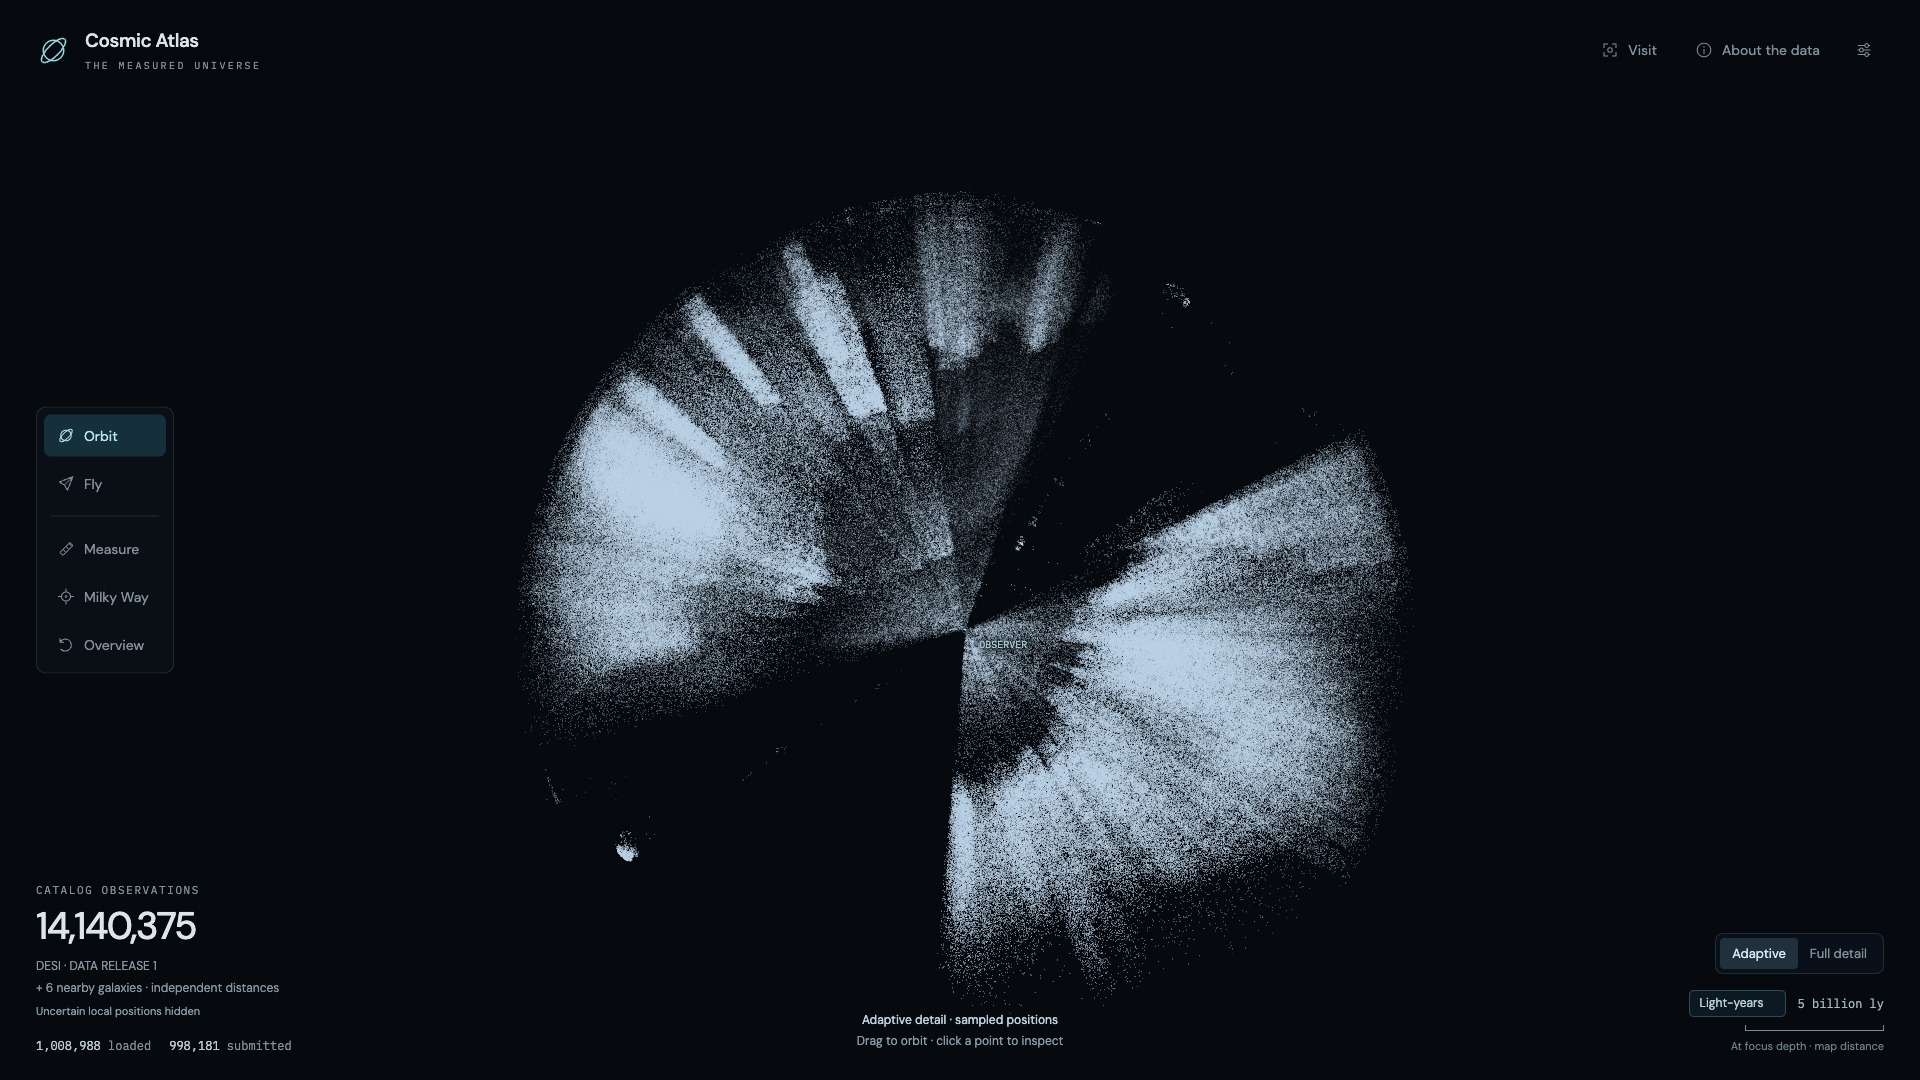
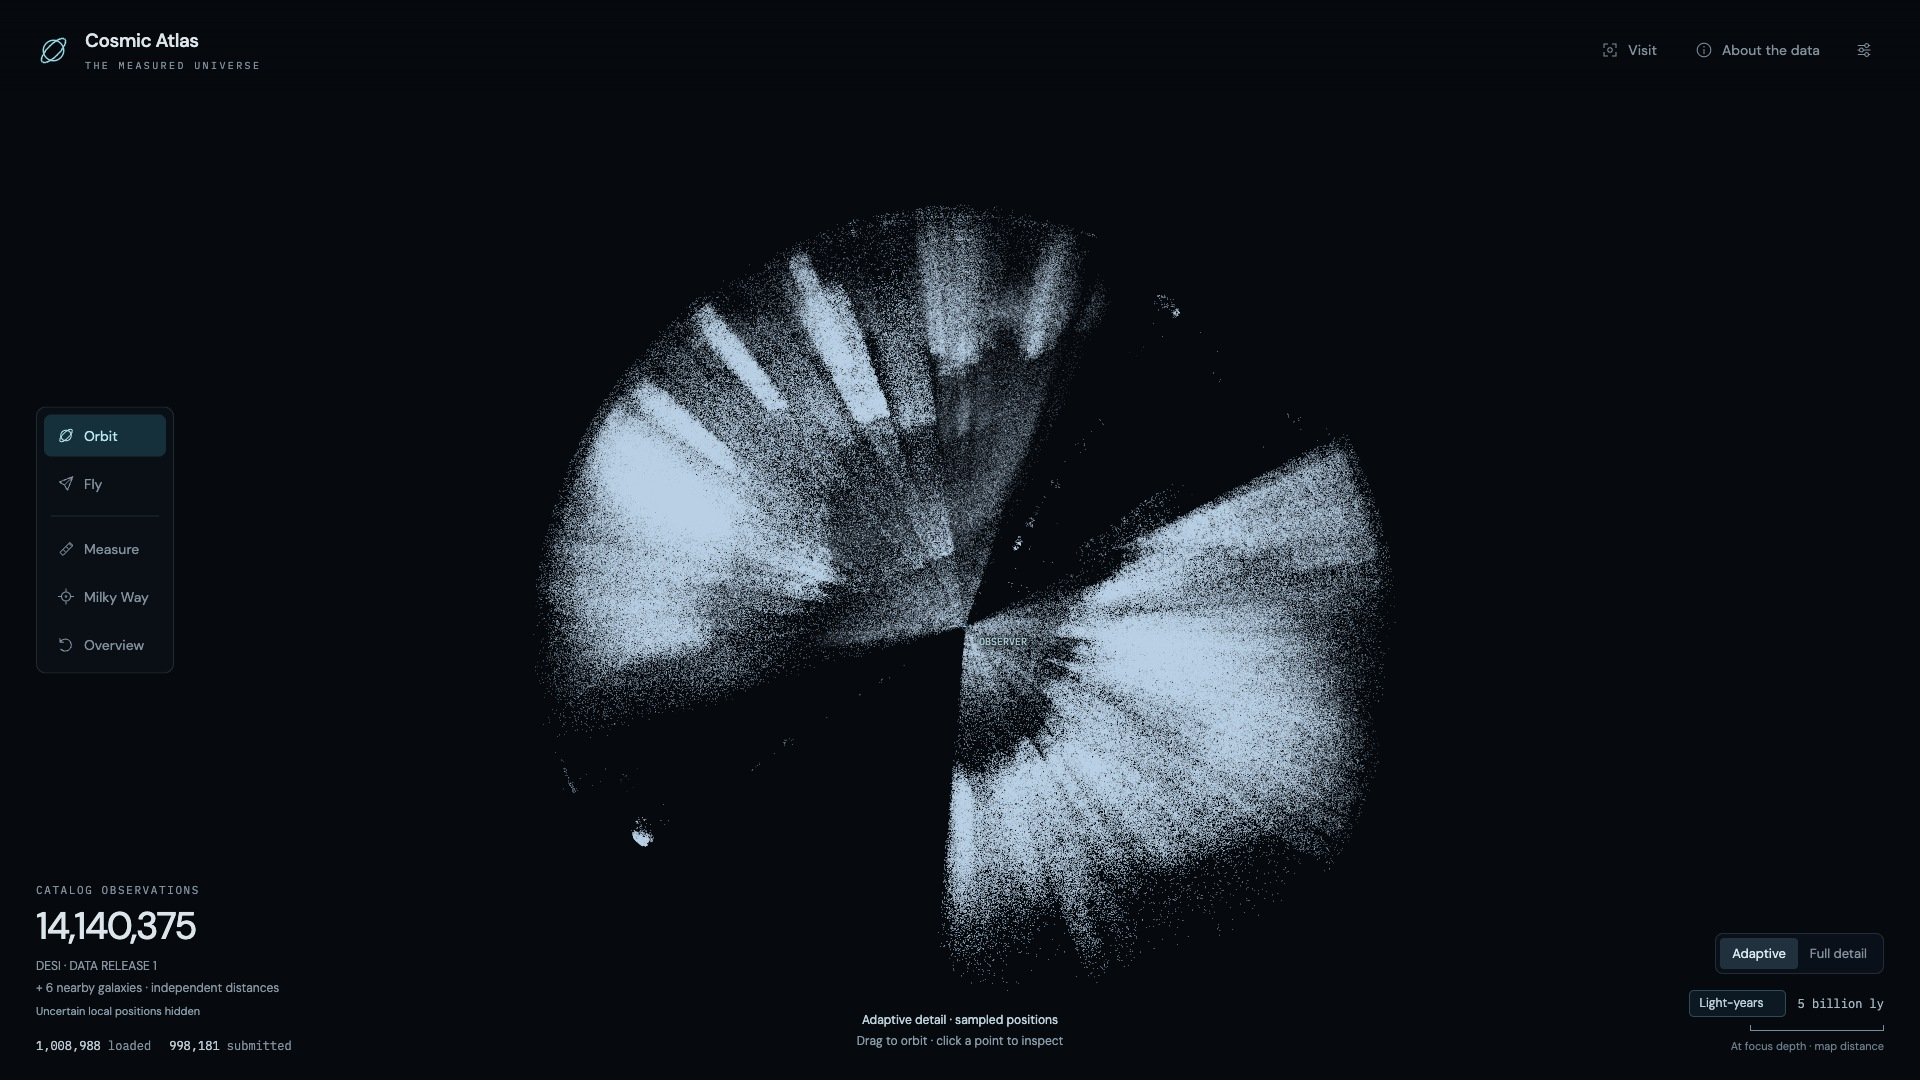
docs: refresh README screenshots and add an inclined Milky Way view

Changed region(s): [[0.25, 0.1833, 0.75, 0.9167], [0.3125, 0.7639, 0.3438, 0.7944]]

diff --git a/README.md b/README.md
@@ -6,16 +6,20 @@ The Milky Way is a separate reference model around the Solar System. Its continu
 
 The project is being built collaboratively by Dave and **ChatGPT Astra**, through Codex. Dave supplies the product direction, visual references and hands-on feedback; Astra implements and tests the application, data tools and documentation.
 
-![Cosmic Atlas showing the Milky Way model with spiral arms, the Galactic core and our Sun's position](docs/images/milky-way.jpg)
+![The revised Milky Way model showing its continuous stellar disk, dust lanes, Galactic core and Sun marker](docs/images/milky-way.jpg)
 
-*Our home galaxy, with separate Galactic core and Sun / Observer markers. Internal structure and light are illustrative.*
+*Our home galaxy's revised stellar disk and dust lanes, with separate Galactic core and Sun / Observer markers. Internal structure and light are illustrative.*
 
 <details>
-<summary>More screenshots: the cosmic web and Andromeda</summary>
+<summary>More screenshots: the cosmic web, Milky Way, and Andromeda</summary>
 
 ![The DESI galaxy survey in Cosmic Atlas, showing its large-scale structure and survey footprint](docs/images/cosmic-web.jpg)
 
 *A wide view of the DESI survey. Gaps reflect survey coverage and selection, not necessarily empty space.*
+
+![An inclined view of the Milky Way model showing its thin disk, central bar and dark dust lanes](docs/images/milky-way-inclined.jpg)
+
+*The same Milky Way model after orbiting the camera. Dust obscures starlight within the reconstructed disk; its distribution is illustrative.*
 
 ![Andromeda viewed from above its modeled disk, with an inspector showing its independently measured distance](docs/images/andromeda.jpg)
 

diff --git a/docs/validation.md b/docs/validation.md
@@ -251,3 +251,7 @@ The density field and all mip levels account for **2,446,676 CPU/GPU bytes** (2.
 Native Chrome production review and direct page captures checked the new source disclosure, core/Sun actions, real wheel/orbit controls and the updated README image. Isolated GPU views were also inspected face-on, inclined, edge-on and from the reverse side. Texture filtering includes the ray-cell footprint to suppress steep-angle aliasing. The final production preview has no page or shader errors. [Full and subset reports](validation-results.json); [appearance choices and sources](milky-way.md).
 
 After deployment, live HTTPS checks pass for the new app/attribution assets, unchanged complete catalog, source sidecars and sampled binary hashes. A separate live Chrome check verifies the updated appearance link, core/Sun actions, zoom, orbit and model screenshot without JavaScript or shader errors. Hosting addresses and operational receipts remain in ignored local deployment files.
+
+## README gallery refresh — 11 September 2026
+
+Recaptured four 1920×1080 images from the current production build: cosmic web, Milky Way, an additional inclined Milky Way view, and Andromeda. Each uses real search/navigation controls and was visually inspected for framing, visible source disclosures and clean rendering. The capture session reports no JavaScript or shader errors. README image paths, JPEG dimensions and existing CC BY-SA credits were checked before committing. This update changes documentation and screenshots only; the application and deployed build are unchanged.

diff --git a/docs/images/README.md b/docs/images/README.md
@@ -1,8 +1,9 @@
 # Cosmic Atlas screenshots
 
-These 1920×1080 JPEGs were captured from the production application on 2026-09-11 using Chrome, with real navigation/zoom controls. They contain no browser chrome, deployment URL or computer-control cursor overlay. No galaxy art was composited into the captures.
+All four 1920×1080 JPEGs were recaptured from the current production build on 2026-09-11 using Chrome, with real navigation, search, zoom and orbit controls. They contain no browser chrome, deployment URL or computer-control cursor overlay. No galaxy art was composited into the captures.
 
-- `milky-way.jpg`: the revised continuous starlight/dust Milky Way reference model and Sun/core markers; recaptured after the appearance update.
+- `milky-way.jpg`: the revised continuous starlight/dust Milky Way reference model and Sun/core markers.
+- `milky-way-inclined.jpg`: the same reference model after orbiting to an inclined view, showing the disk and dust from another angle.
 - `cosmic-web.jpg`: adaptive rendering of the complete accepted DESI DR1 catalog, with visible survey selection and coverage.
 - `andromeda.jpg`: a rotated view of the independently measured M31 entry in the default illustrative spiral appearance.
 
